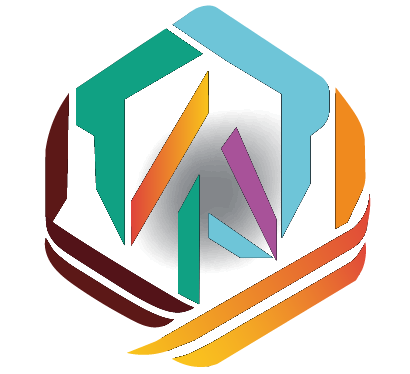
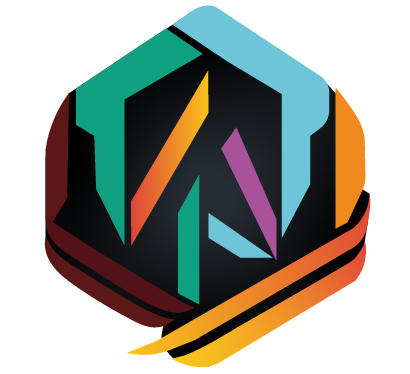
web(public): fix brand mark — restore original dark interior, no filters\n\n- Replace brand/nexara-mark.png with original RGBA (byte-for-byte)\n- Keep mark unfiltered in both themes; adjust intrinsic size to 40x36 (footer 44x40)\n\nAgente: cursor

Changed region(s): [[0.0878, 0.0588, 0.9073, 0.9706]]

diff --git a/apps/web/app/components/Footer.tsx b/apps/web/app/components/Footer.tsx
@@ -71,7 +71,7 @@ export default function Footer() {
                 alt=""
                 className={styles.brandMark}
                 width={44}
-                height={44}
+                height={40}
                 aria-hidden
               />
               <span className={styles.brandWordmark}>NEXARA</span>

diff --git a/apps/web/components/Header.tsx b/apps/web/components/Header.tsx
@@ -217,7 +217,7 @@ export default function Header() {
               src="/brand/nexara-mark.png"
               alt=""
               width={40}
-              height={40}
+              height={36}
               className={styles.logoMark}
               priority
               aria-hidden
